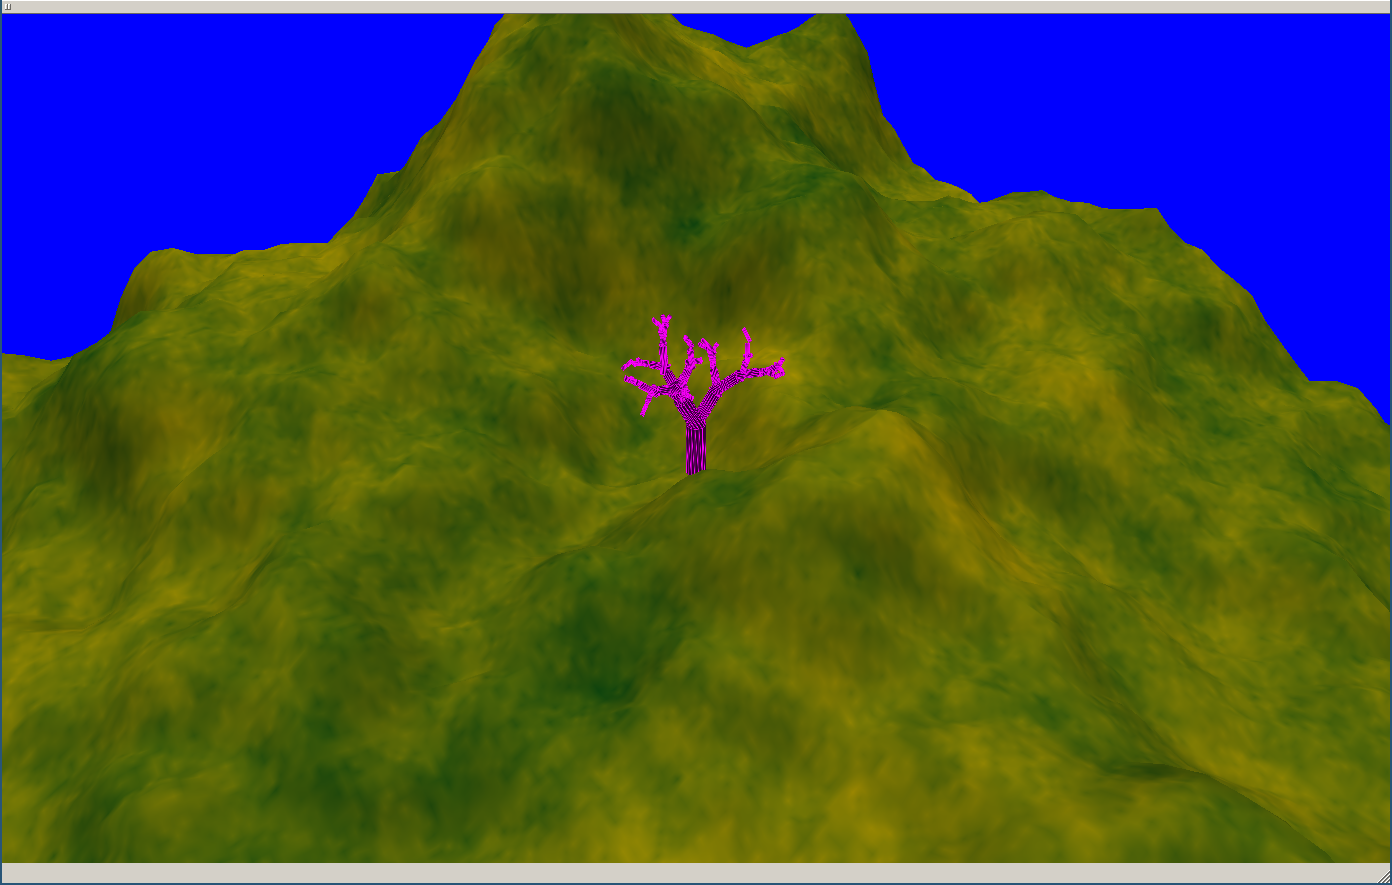
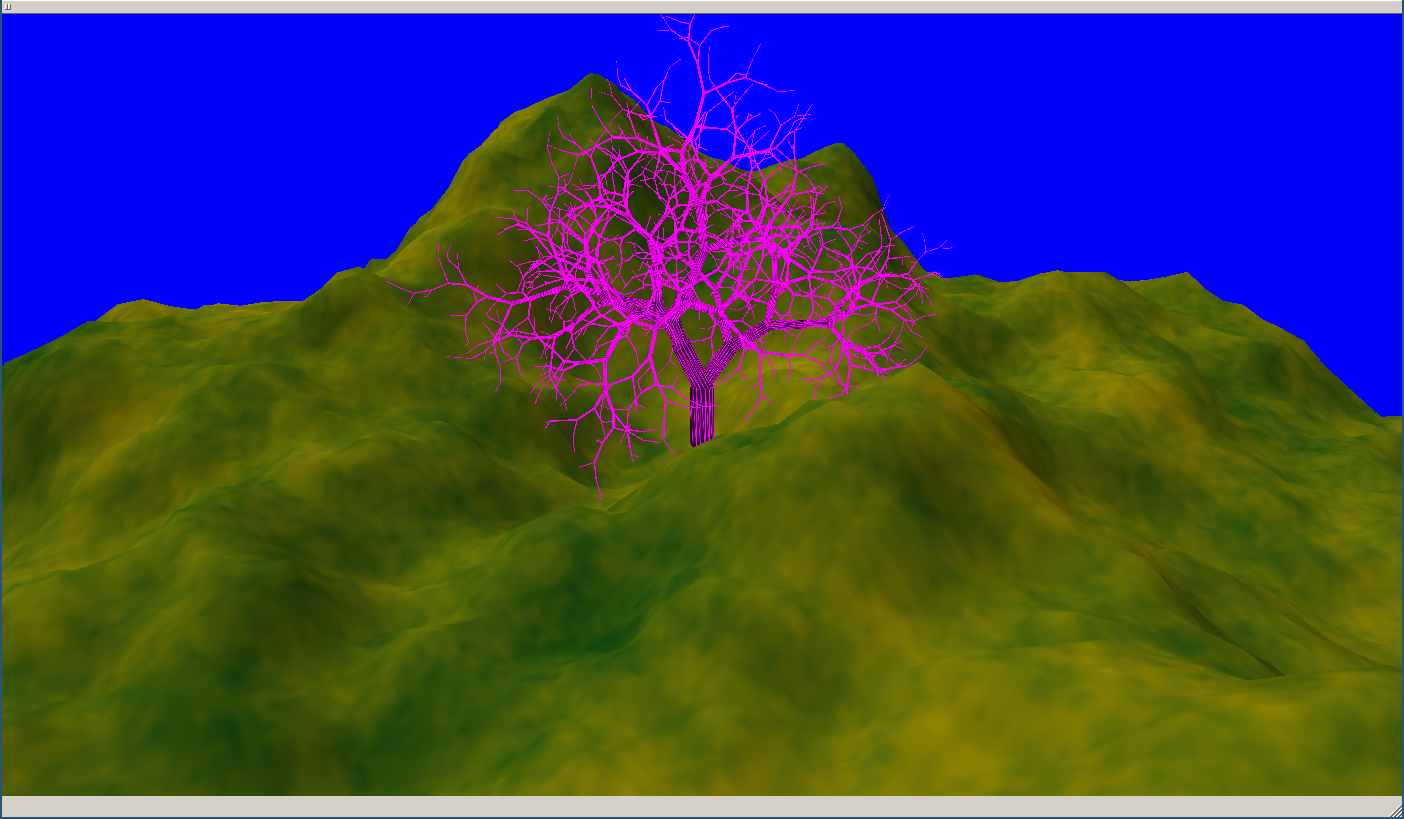
fixed skeleton to mesh

diff --git a/src/glrenderthread.cpp b/src/glrenderthread.cpp
@@ -175,7 +175,7 @@ void QGLRenderThread::load_procedural_scene() {
     terrain_model->add_texture(grass_text, 256, 256, GL_FLOAT, 1, "texture_sampler");
 
     // // glm::vec3 suzanne_location = glm::vec3(32.0f, terrain[32 * mesh_size + 30] * 20 + 1.0f, 30.0f);
-    glm::mat4 view_transform = glm::lookAt(glm::vec3(50,30,10), glm::vec3(32, 10, 32), glm::vec3(0,1,0));
+    glm::mat4 view_transform = glm::lookAt(glm::vec3(50,20,10), glm::vec3(32, 10, 32), glm::vec3(0,1,0));
     glm::mat4 projection_transform = glm::perspective(45.0f, ((float)w) / h, 0.1f, 1000.0f);
     glm::mat4 model_transform = glm::translate(glm::mat4(), glm::vec3(0.0f, 0.0f, 0.0f));
     glm::mat4 mvp = projection_transform * view_transform * model_transform;
@@ -229,7 +229,7 @@ void QGLRenderThread::load_perlin_demo() {
         0.0f, 0.0f
     };
 
-    glm::mat4 view_transform = glm::lookAt(glm::vec3(20,10,-20), glm::vec3(0,0,0), glm::vec3(0,1,0));
+    glm::mat4 view_transform = glm::lookAt(glm::vec3(4,4,10), glm::vec3(0,0,0), glm::vec3(0,1,0));
     glm::mat4 projection_transform = glm::perspective(45.0f, ((float)w) / h, 0.1f, 1000.0f);
 
     float * empty = (float *) calloc(256 * 256, sizeof(float));
@@ -267,7 +267,7 @@ void QGLRenderThread::load_turtle_demo() {
     float * tree_mesh = tree_geometry->g_model_buffer();
     tree_model->add_attribute(tree_mesh, tree_geometry->g_model_buffer_size(), 3, "vertex_position");
 
-    glm::mat4 view_transform = glm::lookAt(glm::vec3(1,6,8), glm::vec3(0,3,0), glm::vec3(0,1,0));
+    glm::mat4 view_transform = glm::lookAt(glm::vec3(2,3,12), glm::vec3(0,3,0), glm::vec3(0,1,0));
     glm::mat4 projection_transform = glm::perspective(45.0f, ((float)w) / h, 0.1f, 1000.0f);
     glm::mat4 model_transform = glm::rotate(glm::mat4(), -90.0f, glm::vec3(1.0, 0.0, 0.0));
     glm::mat4 mvp = projection_transform * view_transform * model_transform;

diff --git a/src/TreeGenerator.cpp b/src/TreeGenerator.cpp
@@ -20,16 +20,16 @@ Geometry * TreeGenerator::generate_tree() {
     branch_params_t b1 = {
         .alpha = 30.0,
         .phi = 70.0,
-        .s_scale = 0.8,
+        .s_scale = 0.9,
         .w_scale = (float) pow(q, e)
     };
     branch_params_t b2 = {
         .alpha = -50.0,
         .phi = 100.0,
-        .s_scale = 0.7,
+        .s_scale = 0.8,
         .w_scale = (float) pow(1 - q, e)
     };
-    TreeGenerator t(Turtle(), Skeleton(), b1, b2, 0.25);
+    TreeGenerator t(Turtle(), Skeleton(), b1, b2, 0.20);
     t.generate_tree_h(1.0, 0.2);
     return t.skeleton.generate_mesh();
 }
@@ -47,7 +47,7 @@ void TreeGenerator::generate_tree_h(float s, float w) {
     }
 
     // scale for length and radius of cylinder
-    glm::mat4 bone_state = *turtle.peek_state() * glm::translate(glm::scale(glm::mat4(), glm::vec3(w,w,s)), glm::vec3(0.0f,0.0f,0.5f * s));
+    glm::mat4 bone_state = *turtle.peek_state() * glm::translate(glm::mat4(), glm::vec3(0.0f,0.0f,0.5f * s)) * glm::scale(glm::mat4(), glm::vec3(w,w,s));
     int bone_ind = skeleton.add_bone(parent, bone_state);
     turtle.forward(s);
 

diff --git a/src/ProceduralGenerator.cpp b/src/ProceduralGenerator.cpp
@@ -96,7 +96,7 @@ float * grass_texture(int width, int height) {
     float * noise = (float *) malloc(sizeof(float) * width * height);
     for (int x = 0; x < width; x++) {
         for (int y = 0; y < height; y++) {
-            noise[x * width + y] = perlin_noise(x/64.0f, y/64.0f, 0.8, 8);
+            noise[x * width + y] = perlin_noise((x + 0.3)/63.2f, (y + 0.7)/63.8f, 0.8, 8);
         }
     }
     normalize_image(noise, width, height);
